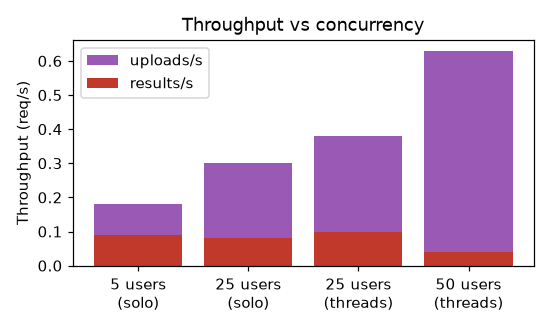
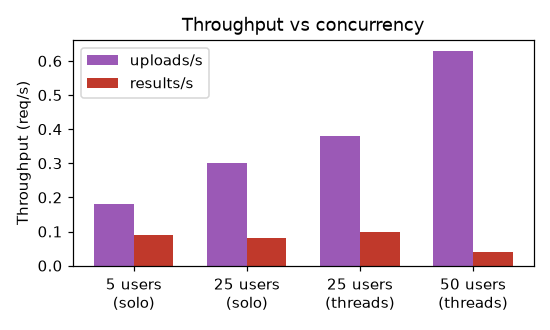
feat: removed dead parameter upload_ms

diff --git a/locustfile.py b/locustfile.py
@@ -27,8 +27,7 @@ UPLOAD_PATH = "/api/v1/upload"
 WS_PATH_TEMPLATE = "/api/v1/ws/{task_id}"
 
 # How long to wait for a result before declaring the request failed.
-# Real tasks (54MB video) can take ~5 min; small clips take ~15 s. Under
-# load the result is queued behind other tasks, so allow generous headroom.
+# Real tasks (50+MB video) can take ~5 min; small clips take ~15 s, so allow generous headroom.
 WS_RESULT_TIMEOUT_SEC = float(os.getenv("WS_RESULT_TIMEOUT_SEC", "600"))
 
 
@@ -61,15 +60,11 @@ class VideoPipelineUser(FastHttpUser):
             return
 
         with open(TEST_FILE, "rb") as f:
-            upload_start = time.perf_counter()
-
             resp = self.client.post(
                 UPLOAD_PATH,
                 files={"file": (os.path.basename(TEST_FILE), f, "video/mp4")},
                 name=f"POST {UPLOAD_PATH}",
             )
-
-            upload_ms = (time.perf_counter() - upload_start) * 1000
 
             if resp.status_code != 200:
                 return
@@ -78,10 +73,10 @@ class VideoPipelineUser(FastHttpUser):
             if not task_id:
                 return
 
-            # Track a separate "result" metric spanning upload + processing.
-            self._track_result(task_id, upload_ms)
+            # time the processing result (WebSocket wait).
+            self._track_result(task_id)
 
-    def _track_result(self, task_id: str, upload_ms: float):
+    def _track_result(self, task_id: str):
         start = time.perf_counter()
         ws = websocket.WebSocket()
         try:

diff --git a/docs/loadtest/gen_charts.py b/docs/loadtest/gen_charts.py
@@ -34,8 +34,10 @@ plt.tight_layout(); plt.savefig("docs/loadtest/e2e_latency.png", dpi=110); plt.c
 
 # 3. Throughput
 plt.figure(figsize=(5,3))
-plt.bar(labels, [d[5] for d in data], color="#9b59b6", label="uploads/s")
-plt.bar(labels, [d[6] for d in data], color="#c0392b", label="results/s")
+x = np.arange(len(labels))
+plt.bar(x-w/2, [d[5] for d in data], w, color="#9b59b6", label="uploads/s")
+plt.bar(x+w/2, [d[6] for d in data], w, color="#c0392b", label="results/s")
+plt.xticks(x, labels)
 plt.ylabel("Throughput (req/s)")
 plt.title("Throughput vs concurrency")
 plt.legend()
